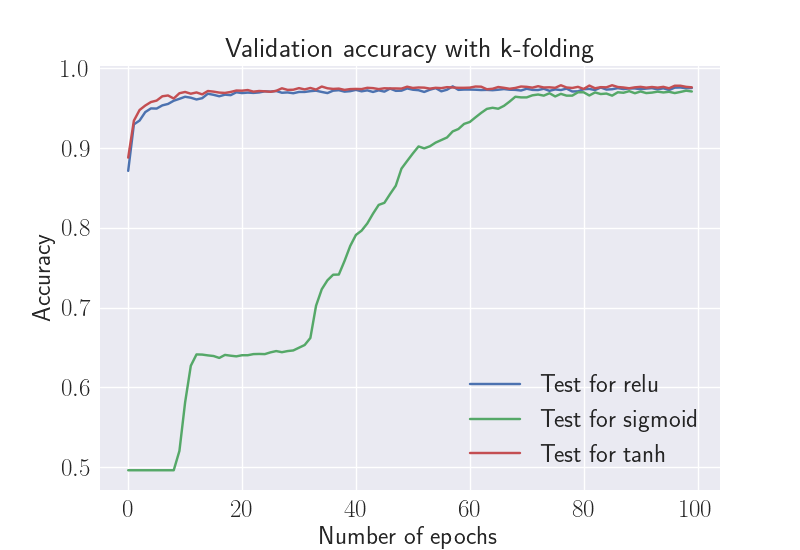
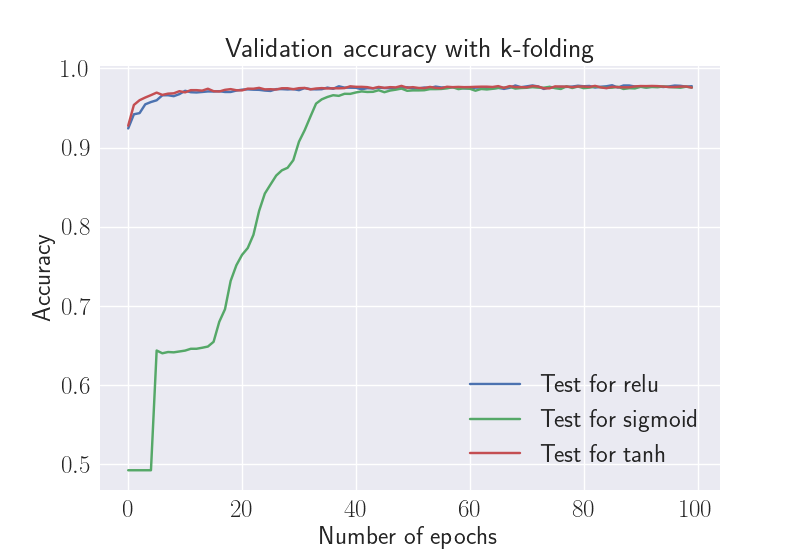
update

diff --git a/Project3/Code/NN_methods.py b/Project3/Code/NN_methods.py
@@ -4,6 +4,7 @@ from tensorflow.keras.layers import Dense           # This allows defining the c
 from tensorflow.keras import optimizers             # This allows using whichever optimiser we want (sgd,adam,RMSprop)
 from tensorflow.keras import regularizers           # This allows using whichever regularizer we want (l1,l2,l1_l2)
 from sklearn.model_selection import KFold
+from common import R2
 
 class NeuralNetwork:
     def __init__(self, X_train, X_test, y_train, y_test):
@@ -34,6 +35,7 @@ class NeuralNetwork:
 
         sgd = optimizers.SGD(learning_rate=eta, momentum=0.9)
         model.compile(optimizer=sgd, loss='mse', metrics = ['accuracy'])
+        #model2.compile(optimizer=sgd, loss='')
 
         # Fit data to model
         fit_ = model.fit(
@@ -41,7 +43,7 @@ class NeuralNetwork:
                 N_epochs, verbose=0,
                 validation_data=(self.X_test, self.y_test)
                 )
-        print('Training completed')
+        #print('Training completed')
 
         pred = model.predict(self.X_test)
         loss = fit_.history['loss'] # train loss
@@ -56,20 +58,28 @@ class NeuralNetwork:
     def kfold(self, inputsize, N_layers, N_neurons, N_epochs, N_folds, batch_size, eta, lmbd, act_func):
         inputs = np.concatenate((self.X_train, self.X_test), axis=0)
         targets = np.concatenate((self.y_train, self.y_test), axis=0)
+        #inputs_2 = np.concatenate((self.X_train, self.X_test), axis=0)
+        #targets_2 = np.concatenate((self.y_train, self.y_test), axis=0)
 
         kfold = KFold(n_splits=N_folds, shuffle=True)
         pred = []
+        #pred_2 = []
         target_data = []
+        #target_data_2 = []
         loss = []
         val_loss = []
         accuracy = []
         val_accuracy = []
+
+        loss_2 = []
+        val_loss_2 = []
 
         fold_no = 1
         for train, test in kfold.split(inputs, targets):
             print('------------------------------------------------------------------------')
             print(f'Training for fold {fold_no} ...')
             model = Sequential()
+            model_2 = Sequential()
             #Input Layer
             model.add(
                 Dense(N_neurons,
@@ -78,30 +88,59 @@ class NeuralNetwork:
                     input_dim=inputsize
                 )
             )
+            #model_2.add(
+            #    Dense(N_neurons,
+            #        activation='relu',
+            #        kernel_regularizer=regularizers.l2(lmbd),
+            #        input_dim=inputsize
+            #    )
+            #)
             #Hidden layers
             for _ in range(N_layers - 1):       # add hidden layers to the network
                 model.add(Dense(N_neurons, activation=act_func, kernel_regularizer=regularizers.l2(lmbd)))
+                #model_2.add(Dense(N_neurons, activation=act_func, kernel_regularizer=regularizers.l2(lmbd)))
             #Output layer
             model.add(Dense(3, activation=None))
+            #model_2.add(Dense(3, activation=None))
 
             sgd = optimizers.SGD(learning_rate=eta, momentum=0.9)
             model.compile(optimizer=sgd, loss='mse', metrics = ['accuracy'])
+
+            #from keras import backend as K
+
+            #def coeff_determination(y_true, y_pred):
+            #    SS_res =  K.sum(K.square( y_true-y_pred ))
+            #    SS_tot = K.sum(K.square( y_true - K.mean(y_true) ) )
+            #    return ( 1 - SS_res/(SS_tot + K.epsilon()) )
+
+            #model_2.compile(optimizer='adam', loss='mean_squared_error', metrics=[coeff_determination])
 
             # Fit data to model
             fit_ = model.fit(
                     inputs[train], targets[train], batch_size, N_epochs,
                     verbose=0, validation_data=(inputs[test], targets[test])
                     )
+            #fit_2 = model_2.fit(
+                    #inputs[train], targets[train], batch_size, N_epochs,
+                    #verbose=0, validation_data=(inputs_2[test], targets_2[test])
+                    #)
 
             pred.append(model.predict(inputs[test]))
             target_data.append(targets[test])
+            #print(pred)
+
+            #pred_2.append(model_2.predict(inputs_2[test]))
+            #target_data_2.append(targets_2[test])
 
             loss.append(fit_.history['loss']) # train loss
             val_loss.append(fit_.history['val_loss']) # test loss
             accuracy.append(fit_.history['accuracy']) # train accuracy
             val_accuracy.append(fit_.history['val_accuracy']) # test accuracy
 
+            #loss_2.append(fit_2.history['loss']) # train loss
+            #val_loss_2.append(fit_2.history['val_loss']) # test loss
+
             # Increase fold number
             fold_no = fold_no + 1
         print('Training completed')
-        return pred, target_data, np.array(loss), np.array(val_loss), np.array(accuracy), np.array(val_accuracy)
+        return pred, target_data, np.array(loss), np.array(val_loss), np.array(accuracy), np.array(val_accuracy), np.array(loss_2), np.array(val_loss_2)

diff --git a/Project3/Code/run_NN.py b/Project3/Code/run_NN.py
@@ -6,13 +6,14 @@ from sklearn.model_selection import train_test_split
 from sklearn.decomposition import PCA
 from sklearn.preprocessing import StandardScaler
 from sklearn.decomposition import PCA
+from common import R2
 
 from NN_methods import NeuralNetwork
-from plot import plot_bias_accuracy, plot_bias_accuracy_simple
+from plot import plot_bias_accuracy, plot_bias_accuracy_simple, plot_R2_score
 from common import prepare_data
 
 # Prepare some data
-N_samples = 5000
+N_samples = 10000 # 10000
 eeg, pos_list = prepare_data(N_samples)
 #eeg = np.load(f'data/eeg_100.npy')
 #pos_list = np.load(f'data/pos_list_100.npy')
@@ -22,17 +23,17 @@ pos_list = pos_list.T
 inputsize = eeg.shape[1]
 N_layers = 5
 N_neurons = 100
-N_epochs = 100 #100 30
+N_epochs = 100 # 30
 batch_size = 30
 eta = 0.0001
 lmbd = 1e-6
-N_folds = 10 #10 5
+N_folds = 10 #10
 
 # Scale the data and append noice
 scaler = StandardScaler()
 scaler.fit(eeg)
 eeg = scaler.transform(eeg)
-eeg += np.random.normal(0,0.1, eeg.shape)
+eeg += np.random.normal(0,0.1, eeg.shape) # marcus la til 0.5 for å få best mulig resultater.
 X_train, X_test, y_train, y_test = train_test_split(eeg, pos_list, test_size=0.2)
 
 model = NeuralNetwork(X_train, X_test, y_train, y_test)
@@ -70,7 +71,7 @@ def run_kfold_DNN(act_funcs):
     val_accuracy_array = np.zeros_like(loss_array)
 
     for i in range(len(act_funcs)):
-        pred, target_data, loss, val_loss, accuracy, val_accuracy = model.kfold(
+        pred, target_data, loss, val_loss, accuracy, val_accuracy, loss_2, val_loss_2 = model.kfold(
                                                         inputsize, N_layers, N_neurons,
                                                         N_epochs, N_folds, batch_size,
                                                         eta, lmbd, act_funcs[i]
@@ -80,13 +81,15 @@ def run_kfold_DNN(act_funcs):
         accuracy_array[i, :] = np.mean(accuracy, axis=0)
         val_accuracy_array[i, :] = np.mean(val_accuracy, axis=0)
 
+
         print(f"Predictions with k-folding using {act_funcs[i]}:")
-        print("Pediction:")
+        print("Prediction:")
         print(pred[-1][0:5][:])
         print("Target:")
         print(target_data[-1][0:5][:])
 
     plot_bias_accuracy(loss_array, val_loss_array, accuracy_array, val_accuracy_array, N_epochs, act_funcs)
+    #plot_R2_score(loss_2, val_loss_2, N_epochs, act_funcs)
 
 # Run PCA with k-folding
 def run_kfold_PCA(act_func):
@@ -95,11 +98,10 @@ def run_kfold_PCA(act_func):
     xx = pca.transform(eeg)
     X_train, X_test, y_train, y_test = train_test_split(xx, pos_list, test_size=0.2)
     model = NeuralNetwork(X_train, X_test, y_train, y_test)
-    pred, target_data, loss, val_loss, accuracy, val_accuracy = model.kfold(
+    pred, target_data, loss, val_loss, accuracy, val_accuracy, loss_2, val_loss_2 = model.kfold(
                                                 xx.shape[1], N_layers, N_neurons,
                                                 N_epochs, N_folds, batch_size,
                                                 eta, lmbd, act_func
-
                                                 )
 
     loss = np.mean(loss, axis=0)
@@ -108,7 +110,7 @@ def run_kfold_PCA(act_func):
     val_accuracy = np.mean(val_accuracy, axis=0)
 
     print(f"Predictions for PCA with k-folding using {act_func}:")
-    print("Pediction:")
+    print("Prediction:")
     print(pred[-1][0:5][:])
     print("Target:")
     print(target_data[-1][0:5][:])

diff --git a/Project3/Code/plot.py b/Project3/Code/plot.py
@@ -5,6 +5,23 @@ plt.style.use('seaborn')
 plt.rc('text', usetex=True)
 plt.rc('text.latex', preamble=r'\usepackage{amsmath}')
 
+def plot_R2_score(loss_2, val_loss_2, N_epochs, act_funcs):
+
+    fig1 = plt.figure()
+    ax1 = fig1.add_subplot()
+    ax1.set_title('R2 score with k-folding', fontsize=20)
+    ax1.set_xlabel('Number of epochs', fontsize=18)
+    ax1.set_ylabel('R2', fontsize=18)
+    ax1.tick_params(axis='both', which='major', labelsize=18)
+    ax1.legend(fontsize=18)
+
+    for i in range(len(act_funcs)):
+        # plot loss during training
+        ax1.plot(loss_2[i], label=f'Train for {act_funcs[i]}')
+
+    fig1.savefig(f'../Plots/R2')
+
+
 def plot_bias_accuracy(loss, val_loss, accuracy, val_accuracy, N_epochs, act_funcs):
 
     fig1 = plt.figure()

diff --git a/Project3/Code/common.py b/Project3/Code/common.py
@@ -26,3 +26,7 @@ def prepare_data(num_samples):
         eeg_i = M @ p #Genererer EEG-signalet tilhørende et dipolmoment i posisjon pos_list[:,i]
         eeg[i, :] = eeg_i.T
     return eeg, pos_list
+
+def R2(y_data, y_model):
+    """Calculate R2 score"""
+    return 1 - np.sum((y_data - y_model) ** 2) / np.sum((y_data - np.mean(y_data)) ** 2)
